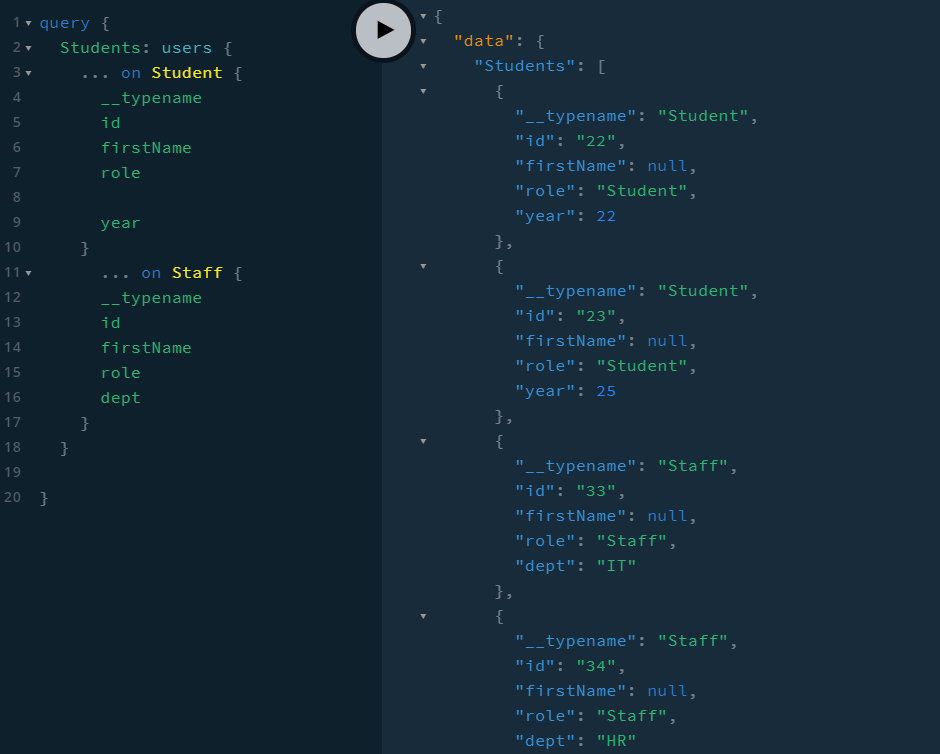
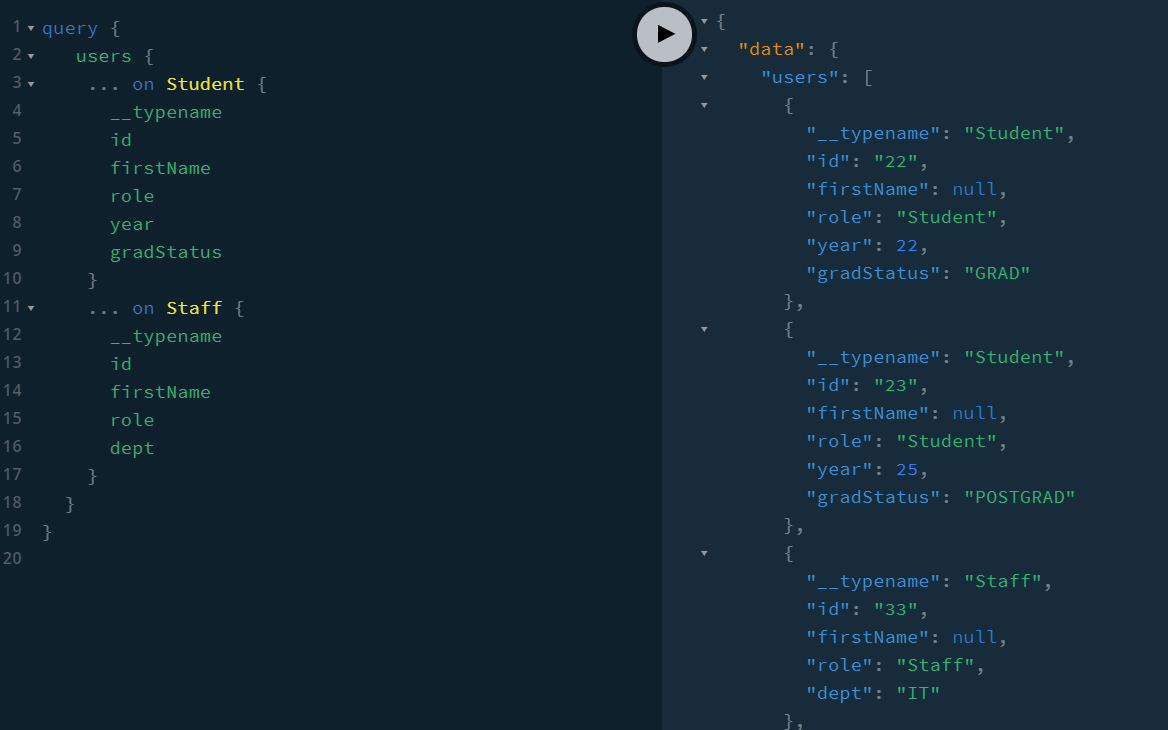
04

diff --git a/COURSES-03/23-interface/index.js b/COURSES-03/23-interface/index.js
@@ -3,25 +3,31 @@ const { ApolloServer, gql } = require('apollo-server');
 const typeDefs = gql`
 	#  introducing enum - constraint on possilbe values
 	enum PersonType {
-		STAFF
-		TUTOR
-		STUDENT
+		Student
+		Tutor
+		Staff
+	}
+	enum GradStatus {
+		UNDERGRAD
+		GRAD
+		POSTGRAD
 	}
 	interface Person {
 		id: ID!
-		role: String
+		role: PersonType
 		firstName: String
 	}
 	#  caps for learning purpose not how it is done
 	type Student implements Person {
 		id: ID!
-		role: String
+		role: PersonType
 		firstName: String
 		year: Int
+		gradStatus: GradStatus
 	}
 	type Staff implements Person {
 		id: ID!
-		role: String
+		role: PersonType
 		firstName: String
 		dept: String
 	}
@@ -47,12 +53,14 @@ const resolvers = {
 					role: 'Student',
 					firstname: 'Sally',
 					year: 22,
+					gradStatus: 'GRAD', // needs to be String not ENUM value
 				},
 				{
 					id: 23,
 					role: 'Student',
 					firstname: 'James',
 					year: 25,
+					gradStatus: 'POSTGRAD',
 				},
 				{ id: 33, role: 'Staff', firstname: 'John', dept: 'IT' },
 				{ id: 34, role: 'Staff', firstname: 'Peter', dept: 'HR' },

diff --git a/COURSES-04/typeDefs/index.js b/COURSES-04/typeDefs/index.js
@@ -6,25 +6,26 @@ const typeDefs = gql`
 	}
 
 	enum PersonType {
-		STAFF
-		TUTOR
-		STUDENT
+		Student
+		Tutor
+		Staff
 	}
 	interface Person {
 		id: ID!
-		role: String
+		role: PersonType
 		firstName: String
 	}
 	#  caps for learning purpose not how it is done
 	type Student implements Person {
 		id: ID!
-		role: String
+		role: PersonType
 		firstName: String
 		year: Int
+		status: String
 	}
 	type Staff implements Person {
 		id: ID!
-		role: String
+		role: PersonType
 		firstName: String
 		dept: String
 	}

diff --git a/COURSES-04/resolvers/index.js b/COURSES-04/resolvers/index.js
@@ -29,3 +29,23 @@ module.exports = {
 		},
 	},
 };
+/*
+query {
+   users {
+    ... on Student {
+      __typename
+      id
+      firstName
+      role
+
+      year
+    }
+    ... on Staff {
+      __typename
+      id
+      firstName
+      role
+      dept
+    }
+  }
+}*/

diff --git a/COURSES-03/23-interface/GUIDE.md b/COURSES-03/23-interface/GUIDE.md
@@ -23,37 +23,20 @@ Furthermore, the definition of the interface might be in another file and would 
 It is an appropriate introduction of ENUMs:
 
 ````
-	enum AllowedColor {
-		RED
-		GREEN
-		BLUE
+	enum PersonType {
+		Student
+		Tutor
+		Staff
+	}
+	enum GradStatus {
+		UNDERGRAD
+		GRAD
+		POSTGRAD
 	}
 ```
 
 
-When passing in as values in queries, us RED not 'RED'.
+When passing in as values in queries, us GRAD not 'GRAD' but return value from resolver needs to be 'GRAD'.
 
-If we execute the query with data, (TEX in this example), that does not follow this constraint then we will get an error:
-
-- "message": "Expected a value of type \"AllowedColor\" but received: \"TEX\"",
-GQL wants the schema to be fully self-documenting so we have to copy its fields. In reality, we do this once, but the CLIENT may do this many, many times.
-
-![gql](/_images/23-interface-query.png)
-
-Like UNION, GQL will need to know what type of the interface it is working with.
-
-We carry out the Query for data in the same way but must add:
-
+We can use this to resolve Interface types...
 ````
-
-    Animal: {
-    	__resolveType(animal, context, info) {
-    		console.log(`__resolving Animal type as ---> ${animal.species}`);
-    		return animal.species;
-    	},
-    },
-
-```
-
-It is saying 'The type of animal you are working with is ...'
-```
